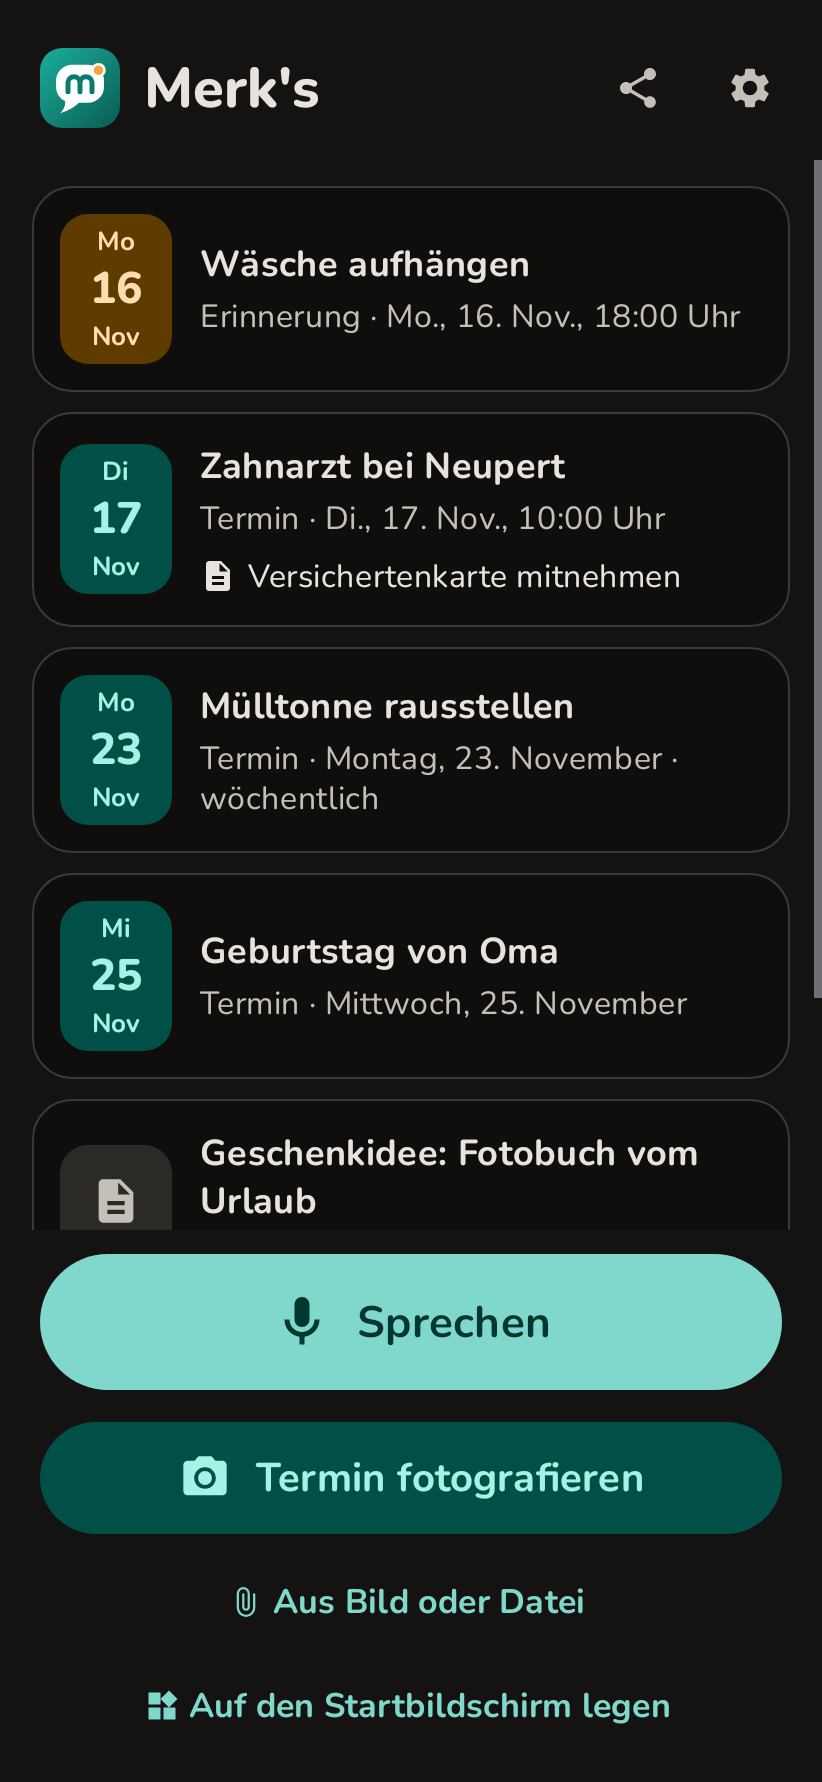
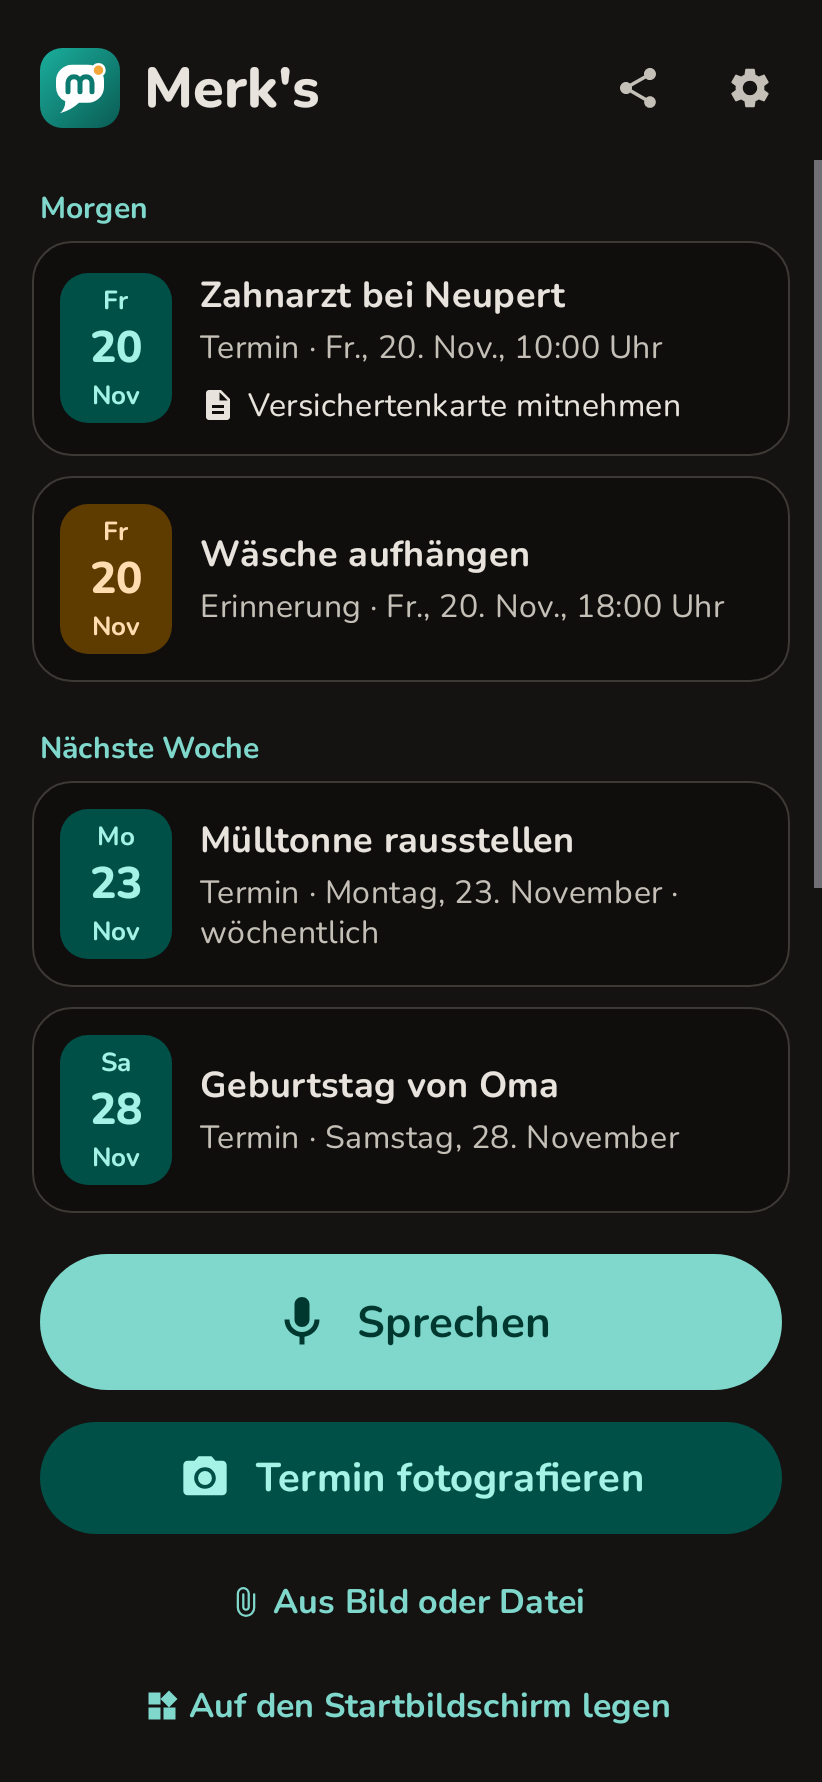
0.12.0: red as a colour, headings in the list
- Red joins the colour choices for the app and its widgets
- The list shows headings where a part begins (Today, Tomorrow, This week,
  Next week, Later, Notes, Ticked off), so a date further away is seen
  to be further away

Claude-Session: https://claude.ai/code/session_01BeRUbzauKFCoRaM6PqiE45

diff --git a/app/src/main/java/de/silvertax/merks/MainActivity.kt b/app/src/main/java/de/silvertax/merks/MainActivity.kt
@@ -24,6 +24,7 @@ class MainActivity : MerksActivity() {
     private var entries: List<Entry> = emptyList()
     private var upcoming: List<Entry> = emptyList()
     private var starts: Map<Long, Long?> = emptyMap()
+    private var heads: Map<Int, String> = emptyMap()
     private lateinit var list: ListView
     private lateinit var empty: View
 
@@ -181,11 +182,29 @@ class MainActivity : MerksActivity() {
         // then notes, then what is ticked off but not over yet.
         upcoming = all.filter { e -> !e.done && e.start != null }.sortedWith(compareBy({ starts[it.id] }, { it.title.lowercase() }))
         entries = upcoming + (all - upcoming.toSet()).sortedBy { it.done }
+        // A heading where a new part of the list begins: today, tomorrow, this week, next week, later,
+        // notes, ticked off. So a date further away is seen to be further away. Only with two parts or more.
+        val firstDay = java.time.temporal.WeekFields.of(Lang.locale(this)).firstDayOfWeek
+        val sections = entries.map { Plan.section(it, starts[it.id], now, zone, firstDay) }
+        heads = if (sections.distinct().size < 2) emptyMap() else
+            sections.withIndex().filter { (i, s) -> i == 0 || sections[i - 1] != s }.associate { (i, s) -> i to sectionName(s) }
         adapter.notifyDataSetChanged()
         findViewById<View>(R.id.share).visibility = if (upcoming.isEmpty()) View.GONE else View.VISIBLE
         empty.visibility = if (entries.isEmpty()) View.VISIBLE else View.GONE
         list.visibility = if (entries.isEmpty()) View.GONE else View.VISIBLE
     }
+
+    private fun sectionName(s: Plan.Section): String = getString(
+        when (s) {
+            Plan.Section.TODAY -> R.string.section_today
+            Plan.Section.TOMORROW -> R.string.section_tomorrow
+            Plan.Section.THIS_WEEK -> R.string.section_this_week
+            Plan.Section.NEXT_WEEK -> R.string.section_next_week
+            Plan.Section.LATER -> R.string.section_later
+            Plan.Section.NOTES -> R.string.section_notes
+            Plan.Section.DONE -> R.string.section_done
+        },
+    )
 
     private fun label(e: Entry): String = getString(
         when (e.kind) {
@@ -327,6 +346,13 @@ class MainActivity : MerksActivity() {
         override fun getView(position: Int, convertView: View?, parent: ViewGroup): View {
             val v = convertView ?: layoutInflater.inflate(R.layout.item_entry, parent, false)
             val e = entries[position]
+            v.findViewById<TextView>(R.id.section).apply {
+                val head = heads[position]
+                text = head
+                visibility = if (head == null) View.GONE else View.VISIBLE
+                // The very first heading sits close under the top.
+                setPadding(paddingLeft, if (position == 0) 0 else (12 * resources.displayMetrics.density).toInt(), paddingRight, paddingBottom)
+            }
             v.findViewById<View>(R.id.card).setOnClickListener { details(e) }
             v.findViewById<TextView>(R.id.title).text = e.title
             v.findViewById<TextView>(R.id.sub).text =

diff --git a/app/src/test/java/de/silvertax/merks/AppSmokeTest.kt b/app/src/test/java/de/silvertax/merks/AppSmokeTest.kt
@@ -1130,6 +1130,31 @@ class AppSmokeTest {
 
     // ---------- Main list ----------
 
+    /** Headings show where a part of the list begins, so an appointment further away is seen to be further away. */
+    @Test fun mainListHasHeadings() {
+        Prefs.setAskedPermissions(app)
+        val today = LocalDate.now()
+        Store.save(app, Parsed(Kind.APPOINTMENT, "Yoga", today.plusDays(1).atTime(13, 30), null, false), "Yoga")
+        Store.save(app, Parsed(Kind.APPOINTMENT, "Töpfern", today.plusDays(1).atTime(14, 0), null, false), "Töpfern")
+        Store.save(app, Parsed(Kind.APPOINTMENT, "Friseur", today.plusDays(40).atTime(9, 0), null, false), "Friseur")
+        Store.save(app, Parsed(Kind.NOTE, "Milch kaufen", null, null, false), "Milch kaufen")
+        val activity = Robolectric.buildActivity(MainActivity::class.java).setup().get()
+        val list = activity.findViewById<ListView>(R.id.list)
+        val rows = (0 until list.adapter.count).map { list.adapter.getView(it, null, list) }
+        fun head(v: View) = v.findViewById<TextView>(R.id.section).let { if (it.visibility == View.VISIBLE) it.text.toString() else "" }
+        assertEquals(listOf("Yoga", "Töpfern", "Friseur", "Milch kaufen"), rows.map { it.findViewById<TextView>(R.id.title).text.toString() })
+        assertEquals(listOf("Morgen", "", "Später", "Notizen"), rows.map { head(it) })
+    }
+
+    /** One part only: no heading. */
+    @Test fun mainListWithOnePartHasNoHeading() {
+        Prefs.setAskedPermissions(app)
+        Store.save(app, Parsed(Kind.NOTE, "Milch kaufen", null, null, false), "Milch kaufen")
+        val activity = Robolectric.buildActivity(MainActivity::class.java).setup().get()
+        val list = activity.findViewById<ListView>(R.id.list)
+        assertEquals(View.GONE, list.adapter.getView(0, null, list).findViewById<View>(R.id.section).visibility)
+    }
+
     /** What has a date shows day and month in place of the symbol; notes and done things keep their symbol. */
     @Test fun mainListShowsTheDateAtAGlance() {
         Prefs.setAskedPermissions(app)

diff --git a/app/src/test/java/de/silvertax/merks/PlanTest.kt b/app/src/test/java/de/silvertax/merks/PlanTest.kt
@@ -174,6 +174,24 @@ class PlanTest {
         assertEquals(at("2026-11-13T16:00"), Plan.nextChange(entries, at("2026-11-13T15:00"), zone))
     }
 
+    /** The parts of the list: next Thursday is "next week", after tomorrow's appointments. */
+    @Test fun theListIsSplitIntoParts() {
+        val now = at("2026-11-19T18:20") // a Thursday
+        fun part(start: String?, done: Boolean = false, firstDay: java.time.DayOfWeek = java.time.DayOfWeek.MONDAY) =
+            Plan.section(item(1, Kind.APPOINTMENT, start, done = done), start?.let { at(it) }, now, zone, firstDay)
+        assertEquals(Plan.Section.TODAY, part("2026-11-19T20:00"))
+        assertEquals(Plan.Section.TODAY, part("2026-11-17T00:00")) // began before today, still going on
+        assertEquals(Plan.Section.TOMORROW, part("2026-11-20T13:30"))
+        assertEquals(Plan.Section.THIS_WEEK, part("2026-11-22T10:00"))
+        assertEquals(Plan.Section.NEXT_WEEK, part("2026-11-23T08:00"))
+        assertEquals(Plan.Section.NEXT_WEEK, part("2026-11-26T09:00"))
+        assertEquals(Plan.Section.LATER, part("2026-11-30T09:00"))
+        assertEquals(Plan.Section.NOTES, part(null))
+        assertEquals(Plan.Section.DONE, part("2026-11-20T09:00", done = true))
+        // Where the week begins on Sunday, Sunday is next week already.
+        assertEquals(Plan.Section.NEXT_WEEK, part("2026-11-22T10:00", firstDay = java.time.DayOfWeek.SUNDAY))
+    }
+
     @Test fun workdaySeriesSkipsTheWeekend() {
         val e = entry(Kind.REMINDER, "2026-11-12T07:00", "2026-11-11T20:00", repeat = Repeat(RepeatUnit.WORKDAY, 1))
         assertEquals(at("2026-11-12T07:00"), next(e, "2026-11-11T20:00"))

diff --git a/app/src/main/java/de/silvertax/merks/Plan.kt b/app/src/main/java/de/silvertax/merks/Plan.kt
@@ -207,6 +207,28 @@ object Plan {
         return next
     }
 
+    /** The parts of the list, in their order: what is going on today, tomorrow, ..., notes, ticked off. */
+    enum class Section { TODAY, TOMORROW, THIS_WEEK, NEXT_WEEK, LATER, NOTES, DONE }
+
+    /**
+     * Where an entry goes in the list. [start] is the date shown for it; something that began before
+     * today and still goes on counts as today. Weeks begin on [firstDay].
+     */
+    fun section(e: Entry, start: Long?, now: Long, zone: ZoneId, firstDay: java.time.DayOfWeek): Section {
+        if (e.done) return Section.DONE
+        if (start == null) return Section.NOTES
+        val day = Instant.ofEpochMilli(start).atZone(zone).toLocalDate()
+        val today = Instant.ofEpochMilli(now).atZone(zone).toLocalDate()
+        val week = today.with(java.time.temporal.TemporalAdjusters.previousOrSame(firstDay))
+        return when {
+            !day.isAfter(today) -> Section.TODAY
+            day == today.plusDays(1) -> Section.TOMORROW
+            day.isBefore(week.plusWeeks(1)) -> Section.THIS_WEEK
+            day.isBefore(week.plusWeeks(2)) -> Section.NEXT_WEEK
+            else -> Section.LATER
+        }
+    }
+
     /** Start of the occurrence that matters now: the first one today or later, else the last one. */
     fun currentStart(e: Entry, now: Long, zone: ZoneId): Long? {
         val today: LocalDate = Instant.ofEpochMilli(now).atZone(zone).toLocalDate()

diff --git a/app/src/test/java/de/silvertax/merks/ScreenshotRender.kt b/app/src/test/java/de/silvertax/merks/ScreenshotRender.kt
@@ -131,6 +131,16 @@ class ScreenshotRender {
         main(false, true, "20_main_rose")
     }
 
+    @Test fun mainRed() {
+        Prefs.setAccent(app, Appearance.RED)
+        main(false, true, "20_main_red")
+    }
+
+    @Test fun mainRedDark() {
+        Prefs.setAccent(app, Appearance.RED)
+        main(true, true, "20_main_red_dark")
+    }
+
     @Test fun mainLilacDark() {
         Prefs.setAccent(app, Appearance.LILAC)
         main(true, true, "20_main_lilac_dark")
@@ -495,7 +505,8 @@ class ScreenshotRender {
         val next = Glance.nextUp(app)
         val now = System.currentTimeMillis()
         val looks = listOf(
-            Triple(Appearance.ROSE, Appearance.LIGHT, false), Triple(Appearance.ROSE, Appearance.DARK, false),
+            Triple(Appearance.RED, Appearance.LIGHT, false), Triple(Appearance.RED, Appearance.DARK, false),
+            Triple(Appearance.ROSE, Appearance.LIGHT, false),
             Triple(Appearance.LILAC, Appearance.LIGHT, false), Triple(Appearance.BLUE, Appearance.DARK, true),
             Triple(Appearance.GREEN, Appearance.LIGHT, false), Triple(Appearance.TEAL, Appearance.DARK, true),
         )

diff --git a/app/src/main/java/de/silvertax/merks/SettingsActivity.kt b/app/src/main/java/de/silvertax/merks/SettingsActivity.kt
@@ -318,6 +318,7 @@ class SettingsActivity : MerksActivity() {
     private fun accentName(accent: String): CharSequence {
         val name = getString(
             when (accent) {
+                Appearance.RED -> R.string.accent_red
                 Appearance.ROSE -> R.string.accent_rose
                 Appearance.LILAC -> R.string.accent_lilac
                 Appearance.BLUE -> R.string.accent_blue
@@ -327,6 +328,7 @@ class SettingsActivity : MerksActivity() {
         )
         val color = getColor(
             when (accent) {
+                Appearance.RED -> R.color.red_primary
                 Appearance.ROSE -> R.color.rose_primary
                 Appearance.LILAC -> R.color.lilac_primary
                 Appearance.BLUE -> R.color.blue_primary
@@ -341,7 +343,7 @@ class SettingsActivity : MerksActivity() {
         }
     }
 
-    /** Teal, pink, purple, blue or green, for the app and the widgets alike. */
+    /** Teal, red, pink, purple, blue or green, for the app and the widgets alike. */
     private fun chooseAccent() {
         val choices = Appearance.ACCENTS
         MaterialAlertDialogBuilder(this)

diff --git a/app/src/main/java/de/silvertax/merks/Appearance.kt b/app/src/main/java/de/silvertax/merks/Appearance.kt
@@ -17,13 +17,15 @@ object Appearance {
     // Accent colours to choose in the settings; teal is the app's own.
     const val TEAL = "teal"
     const val ROSE = "rose"
+    const val RED = "red"
     const val LILAC = "lilac"
     const val BLUE = "blue"
     const val GREEN = "green"
-    val ACCENTS = listOf(TEAL, ROSE, LILAC, BLUE, GREEN)
+    val ACCENTS = listOf(TEAL, RED, ROSE, LILAC, BLUE, GREEN)
 
     /** The theme overlay of an accent colour, or 0 for teal, which is the theme itself. */
     fun accentOverlay(accent: String): Int = when (accent) {
+        RED -> R.style.ThemeOverlay_Merks_Accent_Red
         ROSE -> R.style.ThemeOverlay_Merks_Accent_Rose
         LILAC -> R.style.ThemeOverlay_Merks_Accent_Lilac
         BLUE -> R.style.ThemeOverlay_Merks_Accent_Blue

diff --git a/README.md b/README.md
@@ -72,9 +72,9 @@ Repeating things work too: "Every Monday take out the trash", "Every weekday at 
 
 Time spans and several days work as well: "Tomorrow from 10 to 12 handyman", "December 20 to 23 grandma visits".
 
-The list shows only what is current: what is going on or still to come at the top, soonest first (a series by its next date), then your notes. Appointments and reminders whose time is over leave the app by themselves; appointments stay in your calendar, unless Merk's is the calendar. Everything with a date shows the weekday, day and month up front, so you find a date at a glance. The share button at the top passes on everything that is coming up as plain text, for example to a family chat; a single entry can be shared from its details. If you like, a quiet notification shows it on the lock screen too (Settings → Always show what's next).
+The list shows only what is current: what is going on or still to come at the top, soonest first (a series by its next date), then your notes, with headings such as "Tomorrow" and "Next week" where each part begins. Appointments and reminders whose time is over leave the app by themselves; appointments stay in your calendar, unless Merk's is the calendar. Everything with a date shows the weekday, day and month up front, so you find a date at a glance. The share button at the top passes on everything that is coming up as plain text, for example to a family chat; a single entry can be shared from its details. If you like, a quiet notification shows it on the lock screen too (Settings → Always show what's next).
 
-The theme is light, dark or follows your phone, and an OLED mode makes the dark theme pure black. The colour can be teal, pink, purple, blue or green; the widgets take it too.
+The theme is light, dark or follows your phone, and an OLED mode makes the dark theme pure black. The colour can be teal, red, pink, purple, blue or green; the widgets take it too.
 
 ## Language
 

diff --git a/CHANGELOG.md b/CHANGELOG.md
@@ -6,7 +6,7 @@ What changed for users, per version. When a GitHub release is created with an em
 
 ### What's new
 
-- **Colours:** in the settings, under "Colour", the app and its widgets can be teal, pink, purple, blue or green. The background takes on a hint of the colour too.
+- **Colours:** in the settings, under "Colour", the app and its widgets can be teal, red, pink, purple, blue or green. The background takes on a hint of the colour too.
 - **Widgets follow the app's design:** light, dark or OLED black as chosen in the settings, no longer only as the phone is set (Android 12 and newer).
 - **"Read file" widget:** a button for the home screen that opens a picture, a PDF or a calendar file right away. The "All in one" widget has this button too, from three cells wide; "Photo" beside it now shows its symbol only.
 - **The note in the widgets:** what goes with the next appointment, e.g. what to bring, is shown in "Up next" and "All in one" where "Up next" or a following entry would be.
@@ -17,6 +17,7 @@ What changed for users, per version. When a GitHub release is created with an em
 
 - **Speaking:** a pause no longer changes anything on the screen. "Still listening ... More to add?" is gone; the screen keeps saying "Listening" until it is over.
 - **All-day appointments in the widgets:** they no longer hide what happens at a time on the same day. Two hours before an appointment, and while it lasts, the widgets show that one; afterwards the all-day one is back on top.
+- **Headings in the list:** "Today", "Tomorrow", "This week", "Next week", "Later", "Notes" and "Ticked off" show where each part begins, so an appointment further away is seen to be further away.
 - **The list** sorts a series by its next date once its time today is over, and a reminder that was put off by its new time.
 
 ### Fixed
